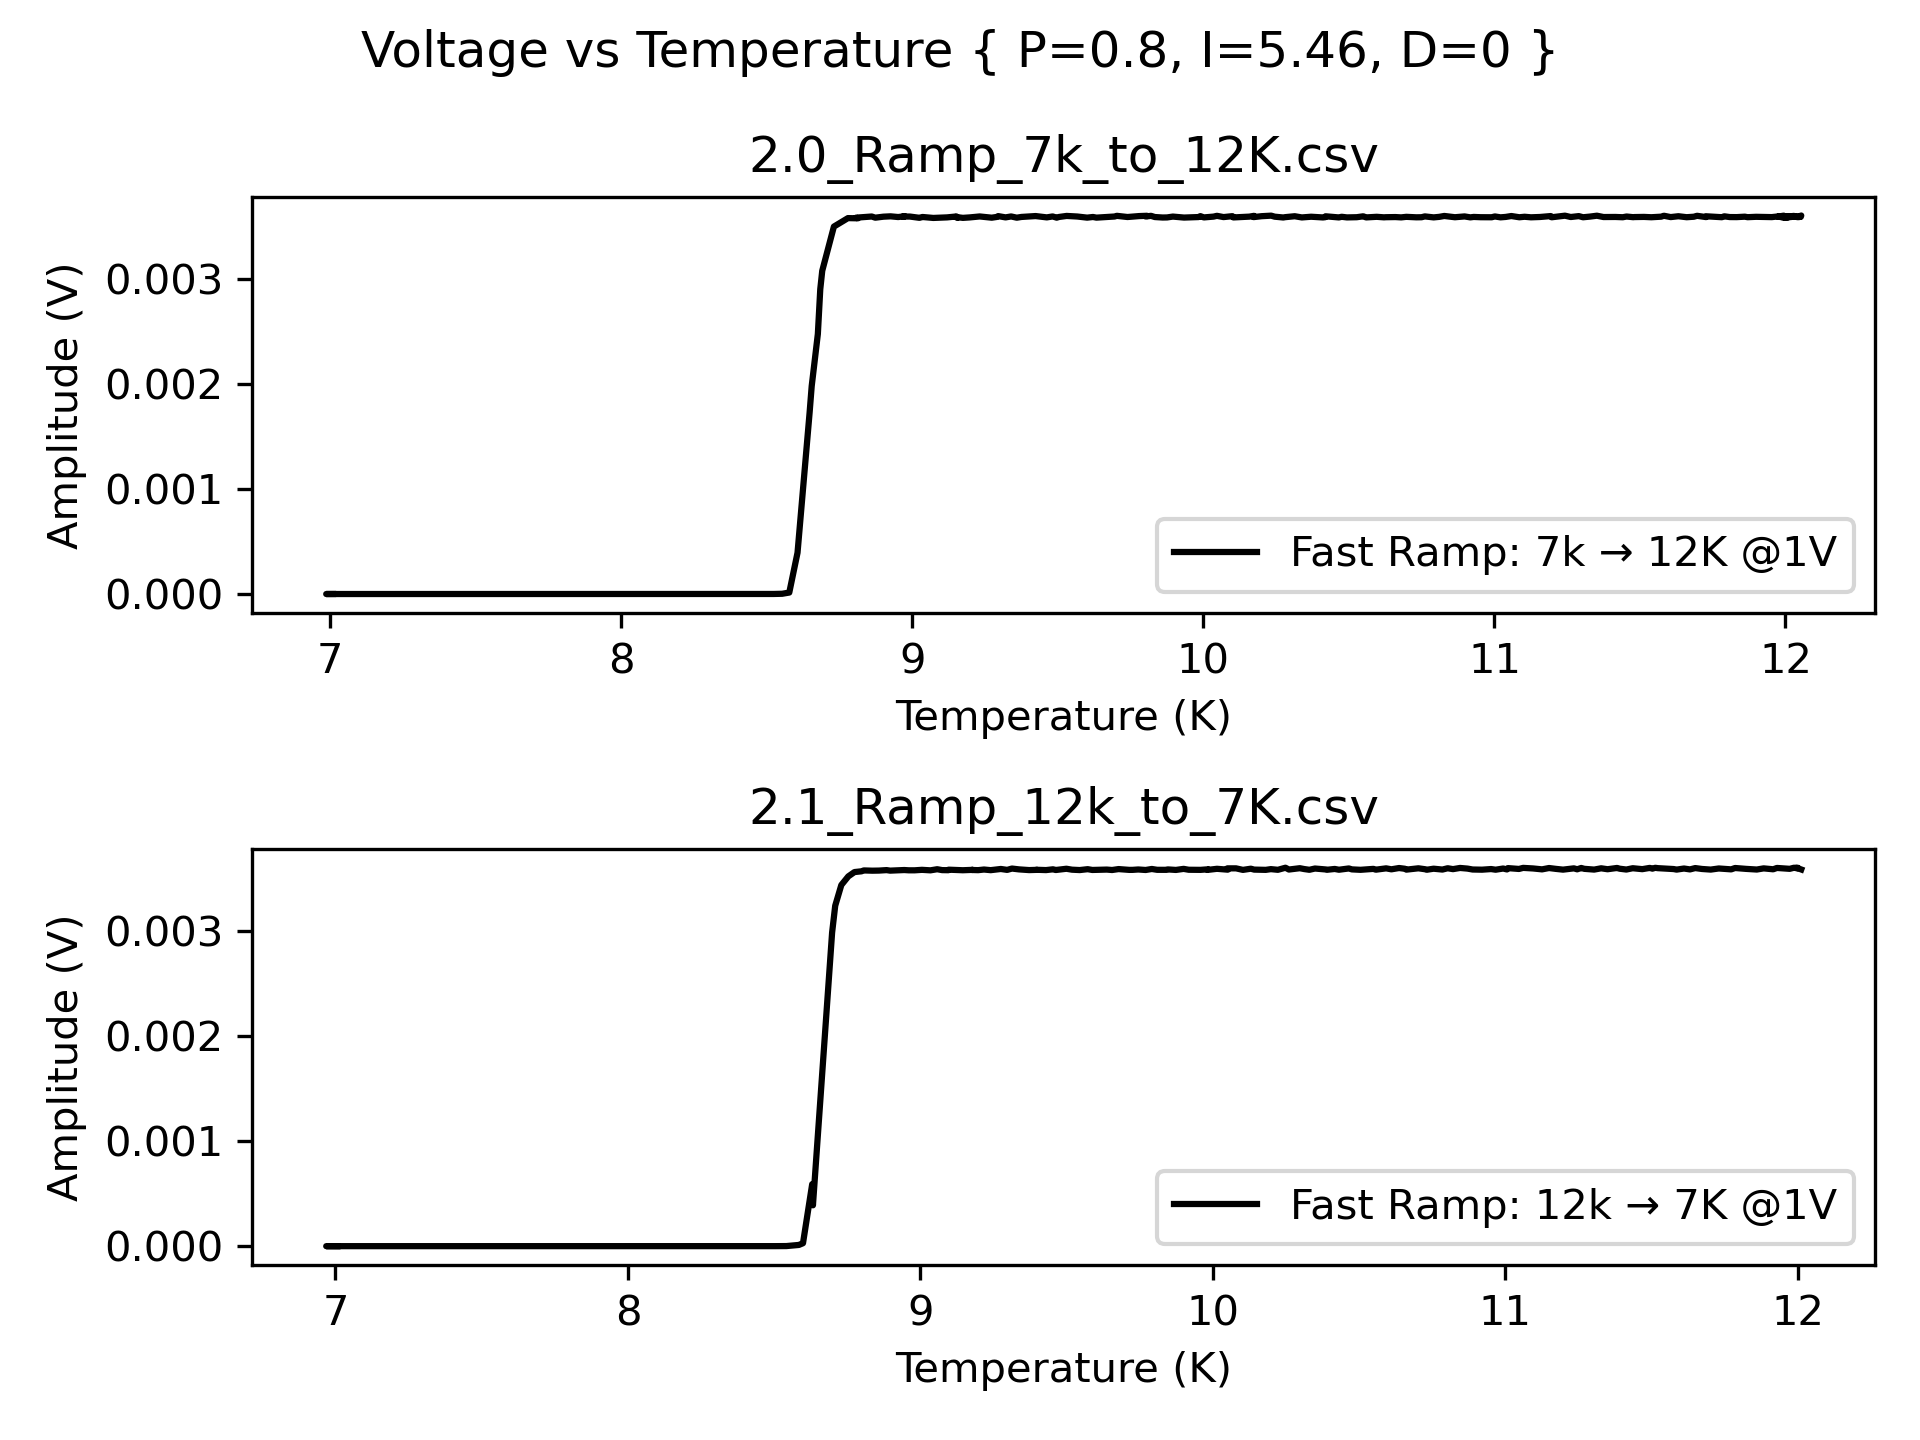
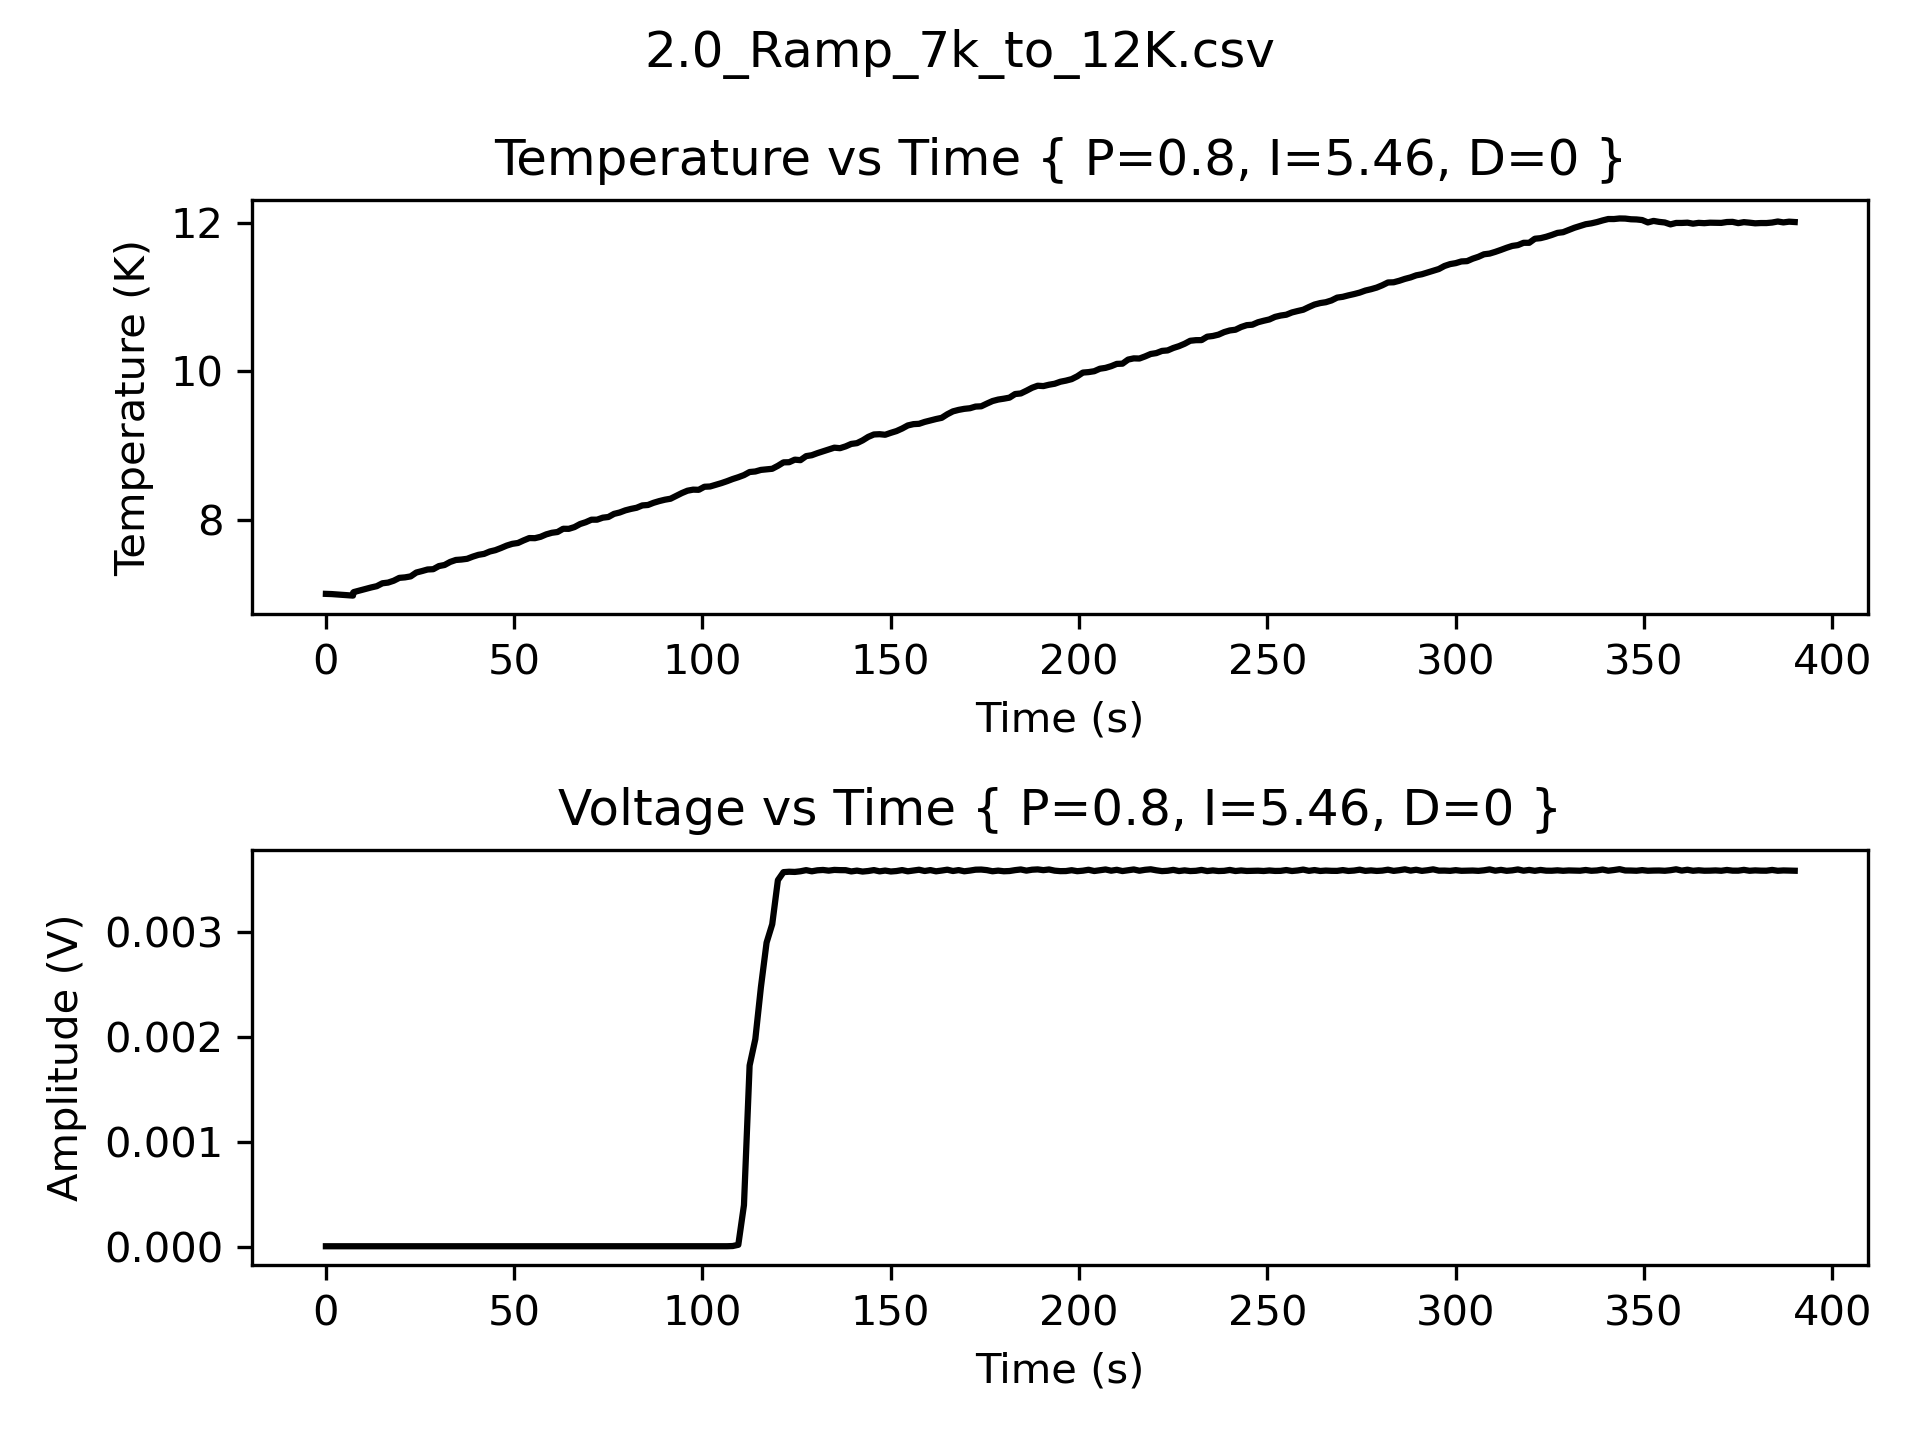
Fixed graphs for raw data

diff --git a/2_Superconducting_Transition/raw.py b/2_Superconducting_Transition/raw.py
@@ -5,69 +5,114 @@ def get_data(file):
     file_data = read_csv(file)
     ampl_data = file_data.get("Amplitude (V)").to_numpy()
     temp_data = file_data.get("Temperature (K)").to_numpy()
-    return (temp_data, ampl_data)
+    time_data = file_data.get("Time (s)").to_numpy()
+    return (time_data, temp_data), (time_data, ampl_data)
 
-data_20 = get_data("2.0_Ramp_7k_to_12K.csv")
-data_21 = get_data("2.1_Ramp_12k_to_7K.csv")
-data_22 = get_data("2.2_Ramp_8.9K_to_8.4K.csv")
-data_23 = get_data("2.3_Ramp_8.4K_to_8.9K.csv")
-data_24 = get_data("2.4_Ramp_8.4K_to_8.9K_5V.csv")
-data_25 = get_data("2.5_Ramp_8.9K_to_8.4K_5V.csv")
-data_26 = get_data("2.6_Last_Chance.csv")
+temp_20, volt_20 = get_data("2.0_Ramp_7k_to_12K.csv")
+temp_21, volt_21 = get_data("2.1_Ramp_12k_to_7K.csv")
+temp_22, volt_22 = get_data("2.2_Ramp_8.9K_to_8.4K.csv")
+temp_23, volt_23 = get_data("2.3_Ramp_8.4K_to_8.9K.csv")
+temp_24, volt_24 = get_data("2.4_Ramp_8.4K_to_8.9K_5V.csv")
+temp_25, volt_25 = get_data("2.5_Ramp_8.9K_to_8.4K_5V.csv")
+temp_26, volt_26 = get_data("2.6_Last_Chance.csv")
+
 
 data_1 = (
-    (data_20, "2.0_Ramp_7k_to_12K.csv", "Fast Ramp: 7k → 12K @1V"),
-    (data_21, "2.1_Ramp_12k_to_7K.csv", "Fast Ramp: 12k → 7K @1V")
+    (temp_20, "Temperature vs Time { P=0.8, I=5.46, D=0 }", "Temperature (K)"),
+    (volt_20, "Voltage vs Time { P=0.8, I=5.46, D=0 }", "Amplitude (V)")
 )
 fig1, axes1 = plt.subplots(2)
-fig1.suptitle("Voltage vs Temperature { P=0.8, I=5.46, D=0 }")
+fig1.suptitle("2.0_Ramp_7k_to_12K.csv")
 for i, axes in enumerate(axes1):
-    axes.plot(*data_1[i][0], color='k', label=f"{data_1[i][2]}")
+    axes.plot(*data_1[i][0], color='k')
     axes.set_title(data_1[i][1])
-    axes.set_xlabel("Temperature (K)")
-    axes.set_ylabel("Amplitude (V)")
-    axes.legend(loc="lower right")
+    axes.set_xlabel("Time (s)")
+    axes.set_ylabel(data_1[i][2])
 plt.tight_layout()
 fig1.savefig("Raw1.png", dpi=300)
 
 data_2 = (
-    (data_22, "2.2_Ramp_8.9k_to_8.4K.csv", "Slow Ramp: 8.9k → 8.4K @1V"),
-    (data_23, "2.3_Ramp_8.4k_to_8.9K.csv", "Slow Ramp: 8.4k → 8.9K @1V")
+    (temp_21, "Temperature vs Time { P=0.8, I=5.46, D=0 }", "Temperature (K)"),
+    (volt_21, "Voltage vs Time { P=0.8, I=5.46, D=0 }", "Amplitude (V)")
 )
 fig2, axes2 = plt.subplots(2)
-fig2.suptitle("Voltage vs Temperature { P=0.8, I=5.46, D=0 }")
+fig2.suptitle("2.1_Ramp_12k_to_7K.csv")
 for i, axes in enumerate(axes2):
-    axes.plot(*data_2[i][0], color='k', label=f"{data_2[i][2]}")
+    axes.plot(*data_2[i][0], color='k')
     axes.set_title(data_2[i][1])
-    axes.set_xlabel("Temperature (K)")
-    axes.set_ylabel("Amplitude (V)")
-    axes.legend(loc="lower right")
+    axes.set_xlabel("Time (s)")
+    axes.set_ylabel(data_2[i][2])
 plt.tight_layout()
 fig2.savefig("Raw2.png", dpi=300)
 
 data_3 = (
-    (data_24, "2.4_Ramp_8.4k_to_8.9K_5V.csv", "Slow Ramp: 8.4k → 8.9K @5V"),
-    (data_25, "2.5_Ramp_8.9k_to_8.4K_5V.csv", "Slow Ramp: 8.9k → 8.4K @5V")
+    (temp_22, "Temperature vs Time { P=0.8, I=5.46, D=0 }", "Temperature (K)"),
+    (volt_22, "Voltage vs Time { P=0.8, I=5.46, D=0 }", "Amplitude (V)")
 )
 fig3, axes3 = plt.subplots(2)
-fig3.suptitle("Voltage vs Temperature { P=0.8, I=5.46, D=0 }")
+fig3.suptitle("2.2_Ramp_8.9K_to_8.4K.csv")
 for i, axes in enumerate(axes3):
-    axes.plot(*data_3[i][0], color='k', label=f"{data_3[i][2]}")
+    axes.plot(*data_3[i][0], color='k')
     axes.set_title(data_3[i][1])
-    axes.set_xlabel("Temperature (K)")
-    axes.set_ylabel("Amplitude (V)")
-    axes.legend(loc="lower right")
+    axes.set_xlabel("Time (s)")
+    axes.set_ylabel(data_3[i][2])
 plt.tight_layout()
 fig3.savefig("Raw3.png", dpi=300)
 
-fig4, axes4 = plt.subplots()
-fig4.suptitle("Voltage vs Temperature { P=0.8, I=5.46, D=0 }")
-axes4.plot(*data_26, color='k', label="Slow Ramp: 8.4K → 11.2K @5V")
-axes4.set_title("2.6_Last_Chance.csv")
-axes4.set_xlabel("Temperature (K)")
-axes4.set_ylabel("Amplitude (V)")
-axes4.legend(loc="lower right")
+data_4 = (
+    (temp_23, "Temperature vs Time { P=0.8, I=5.46, D=0 }", "Temperature (K)"),
+    (volt_23, "Voltage vs Time { P=0.8, I=5.46, D=0 }", "Amplitude (V)")
+)
+fig4, axes4 = plt.subplots(2)
+fig4.suptitle("2.3_Ramp_8.4K_to_8.9K.csv")
+for i, axes in enumerate(axes4):
+    axes.plot(*data_4[i][0], color='k')
+    axes.set_title(data_4[i][1])
+    axes.set_xlabel("Time (s)")
+    axes.set_ylabel(data_4[i][2])
 plt.tight_layout()
-fig4.savefig("Raw5.png", dpi=300)
+fig4.savefig("Raw4.png", dpi=300)
+
+data_5 = (
+    (temp_24, "Temperature vs Time { P=0.8, I=5.46, D=0 }", "Temperature (K)"),
+    (volt_24, "Voltage vs Time { P=0.8, I=5.46, D=0 }", "Amplitude (V)")
+)
+fig5, axes5 = plt.subplots(2)
+fig5.suptitle("2.4_Ramp_8.4K_to_8.9K_5V.csv")
+for i, axes in enumerate(axes5):
+    axes.plot(*data_5[i][0], color='k')
+    axes.set_title(data_5[i][1])
+    axes.set_xlabel("Time (s)")
+    axes.set_ylabel(data_5[i][2])
+plt.tight_layout()
+fig5.savefig("Raw5.png", dpi=300)
+
+data_6 = (
+    (temp_25, "Temperature vs Time { P=0.8, I=5.46, D=0 }", "Temperature (K)"),
+    (volt_25, "Voltage vs Time { P=0.8, I=5.46, D=0 }", "Amplitude (V)")
+)
+fig6, axes6 = plt.subplots(2)
+fig6.suptitle("2.2_Ramp_8.9K_to_8.4K.csv")
+for i, axes in enumerate(axes6):
+    axes.plot(*data_6[i][0], color='k')
+    axes.set_title(data_6[i][1])
+    axes.set_xlabel("Time (s)")
+    axes.set_ylabel(data_6[i][2])
+plt.tight_layout()
+fig6.savefig("Raw6.png", dpi=300)
+
+data_7 = (
+    (temp_26, "Temperature vs Time { P=0.8, I=5.46, D=0 }", "Temperature (K)"),
+    (volt_26, "Voltage vs Time { P=0.8, I=5.46, D=0 }", "Amplitude (V)")
+)
+fig7, axes7 = plt.subplots(2)
+fig7.suptitle("2.2_Ramp_8.9K_to_8.4K.csv")
+for i, axes in enumerate(axes7):
+    axes.plot(*data_7[i][0], color='k')
+    axes.set_title(data_7[i][1])
+    axes.set_xlabel("Time (s)")
+    axes.set_ylabel(data_7[i][2])
+plt.tight_layout()
+fig7.savefig("Raw6.png", dpi=300)
 
 plt.show()
